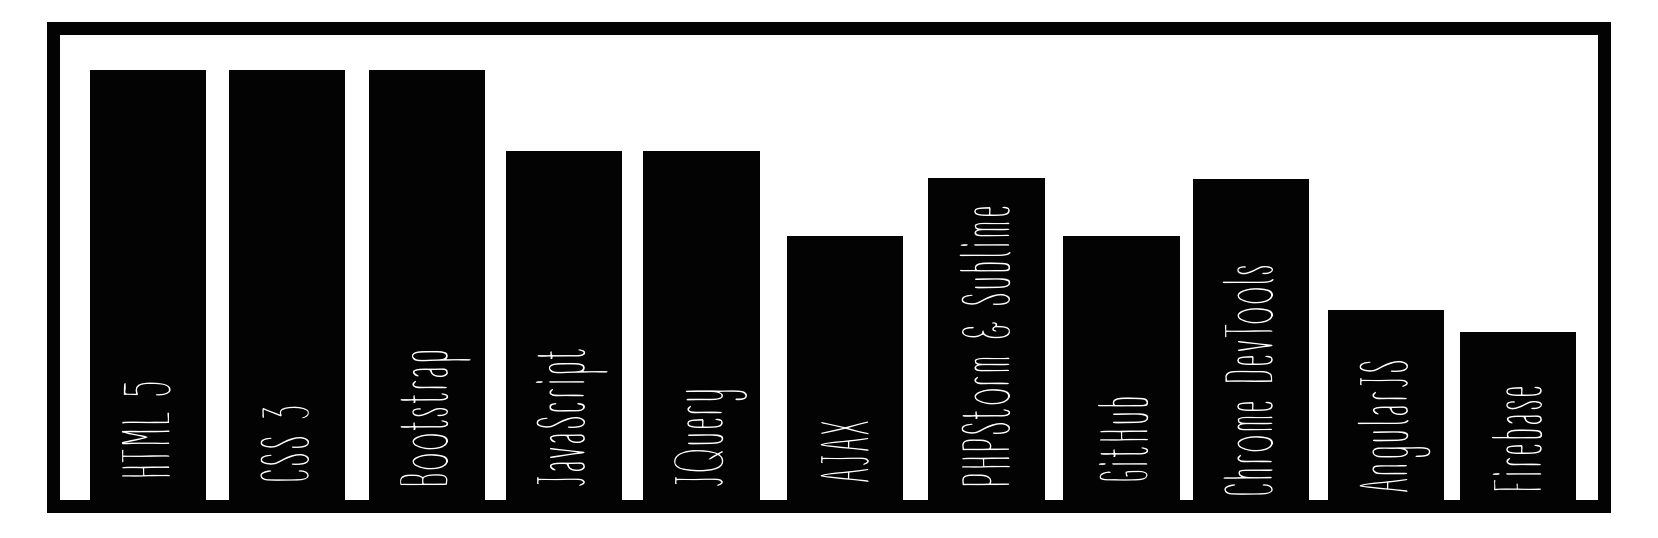
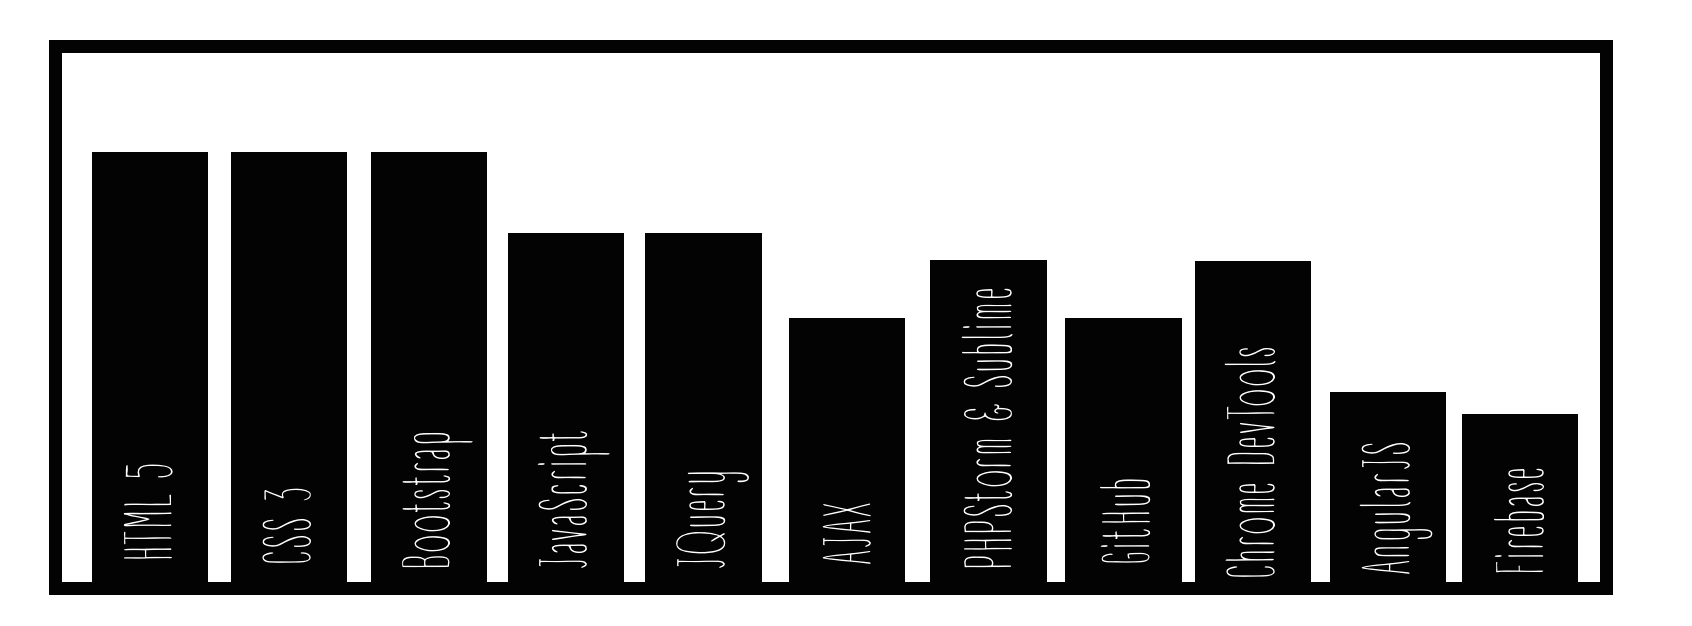
new pic

diff --git a/index.html b/index.html
@@ -199,7 +199,7 @@
                <div class="col-md-12 center_middle">
                    <h1>Technical Skills</h1>
                     <div class="row">
-                        <div class="col-md-12"><img class="center-block" width="60%" src="image/skills.png"></div>
+                        <div class="col-md-12"><img class="img-responsive center-block" width="60%" src="image/skills.png"></div>
                     </div>
                </div>
            </div> 
